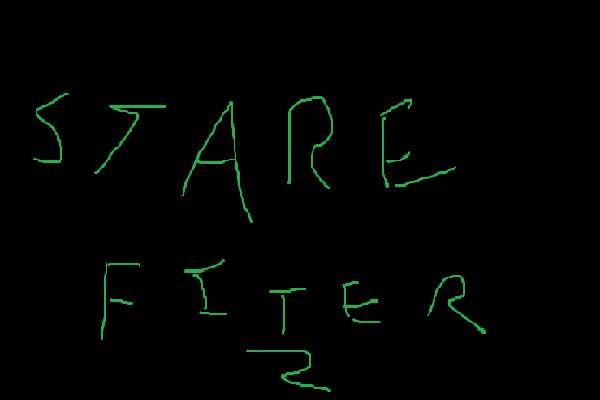
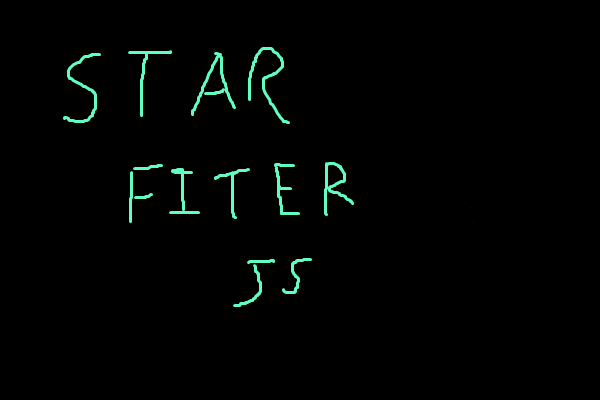
title change

diff --git a/StarfighterJS/script.js b/StarfighterJS/script.js
@@ -96,6 +96,7 @@ function update(){
         ctx.drawImage( starfiter, 100 , 0, 600, 400 );
         ctx.fillStyle = "#45F9C3";
         ctx.fillRect( box.x, box.y, box.width, box.height );
+        ctx.drawImage( ship, 523, 373, ship.width, ship.height );
         ctx.fillStyle = '#FFFFFF';
         ctx.font = '20px Comic Sans MS';
         ctx.fillText( 'START', box.x + box.width/2 - 25, box.y + box.height/2 + 10 );
@@ -104,6 +105,9 @@ function update(){
                 gamer = true;
                 op = false;//change cols
             }
+        }
+        if( cursor.click){
+            console.log( cursor.x , cursor.y );
         }
     }
     //poewrup falls, gives super for 5s
